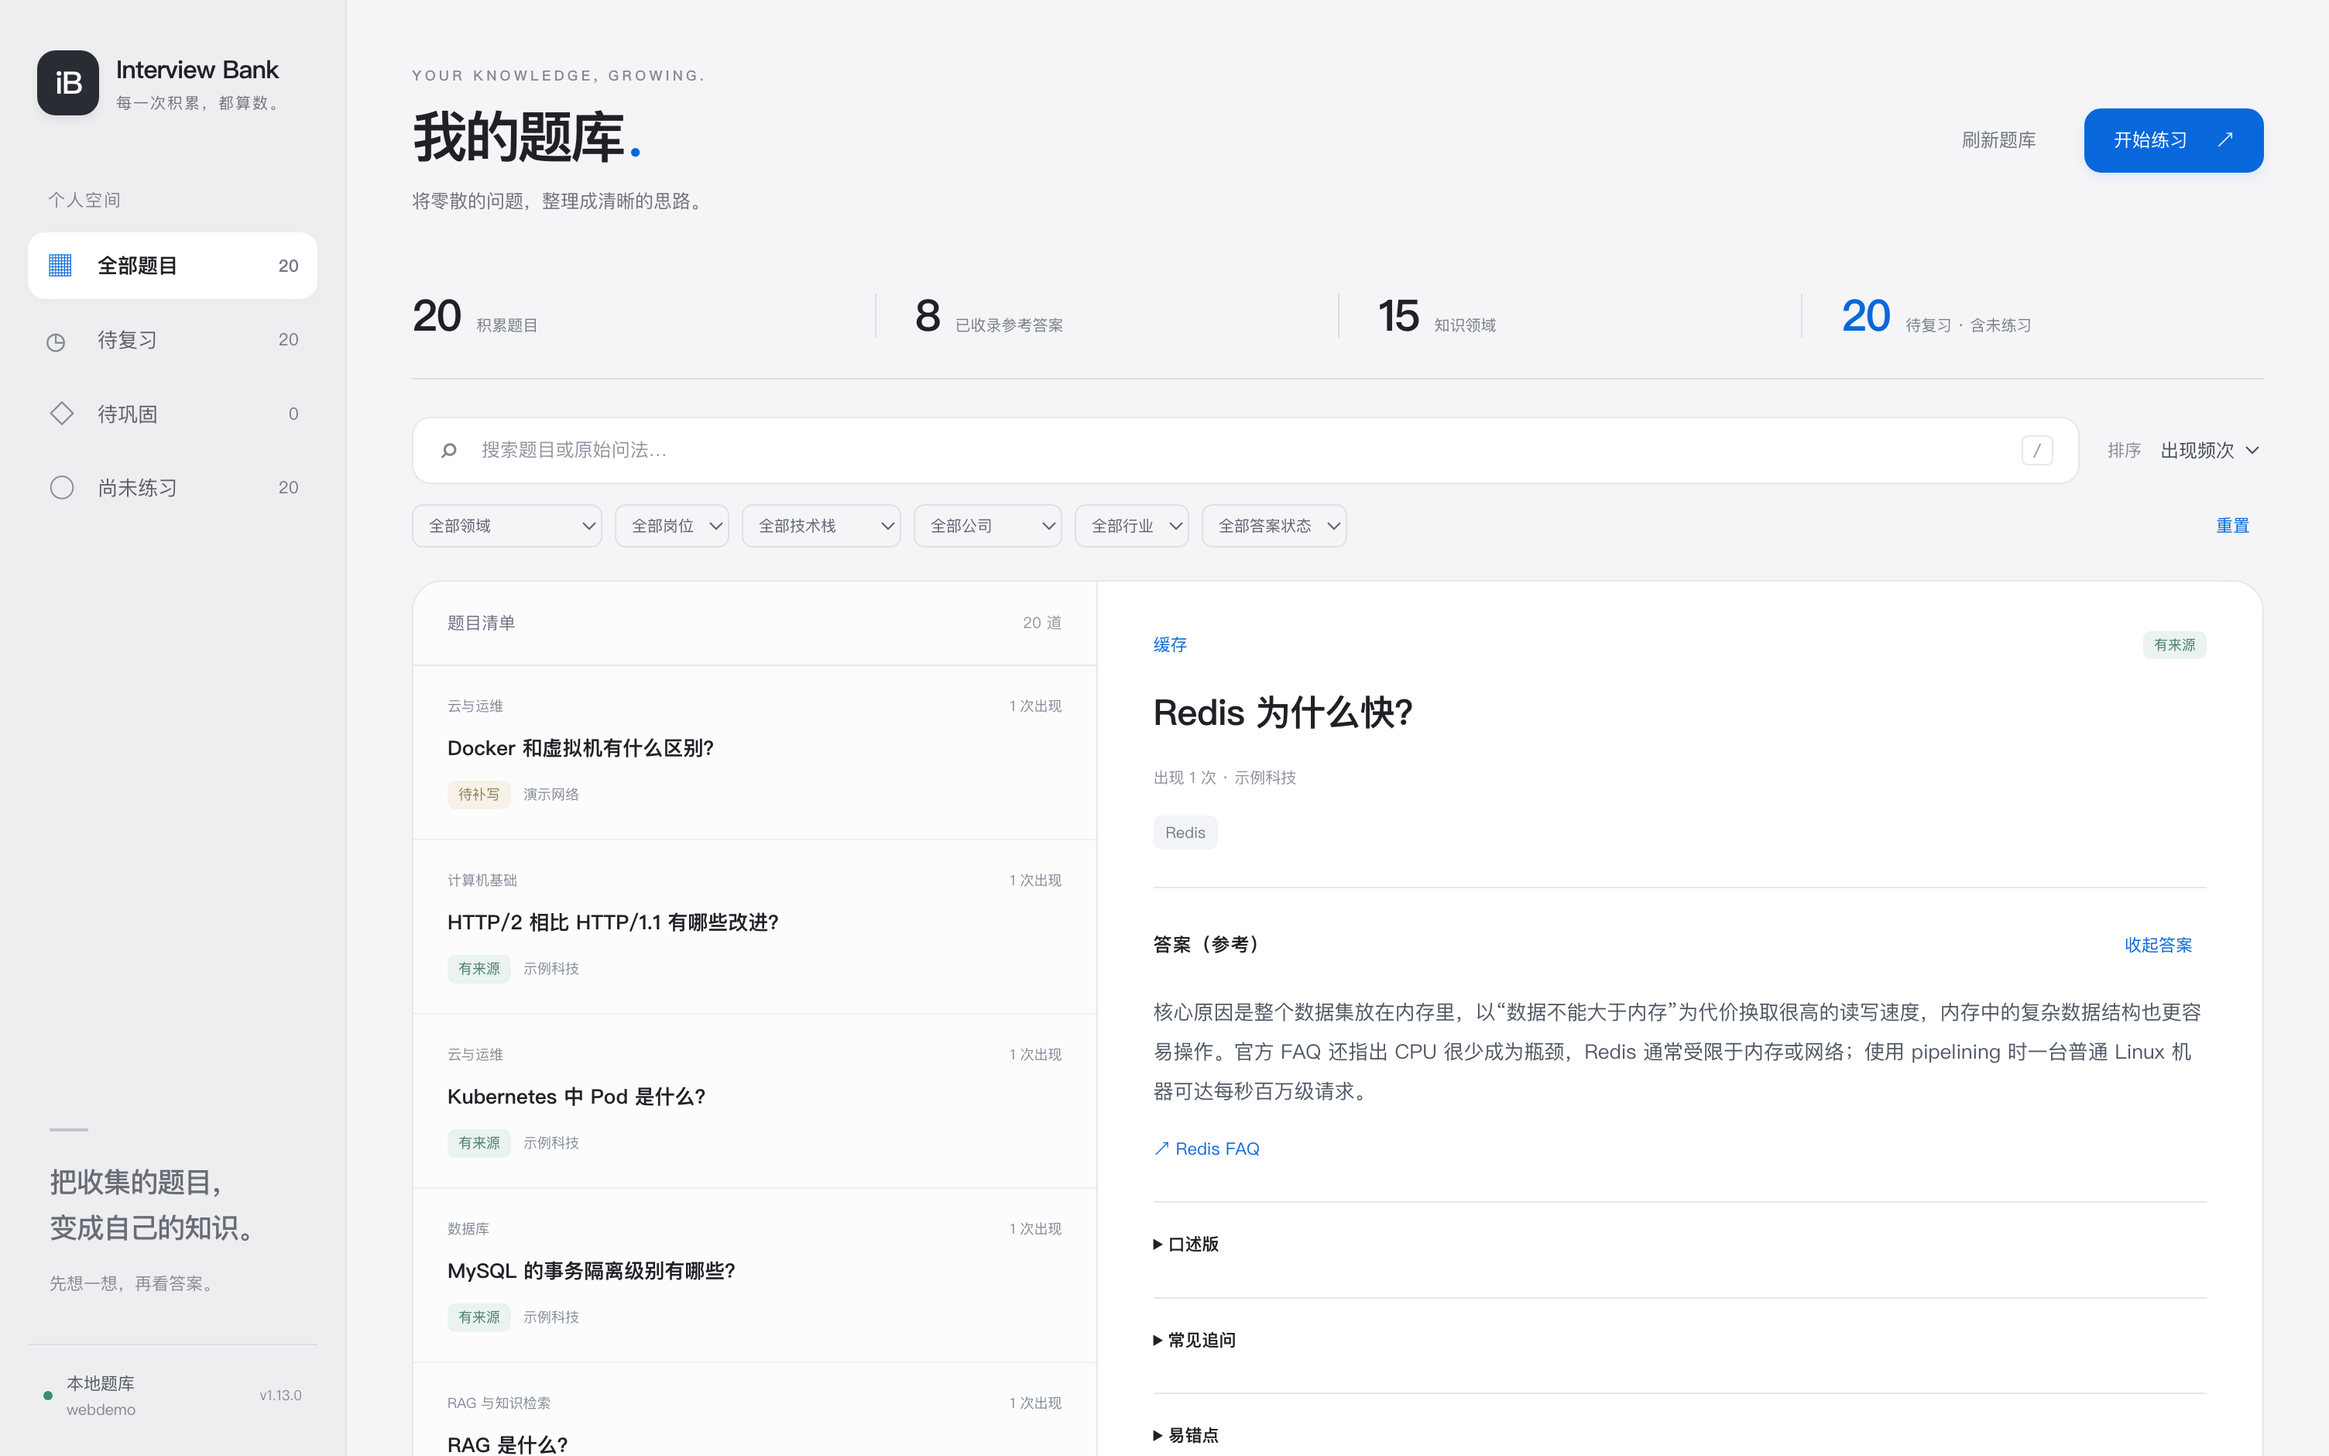
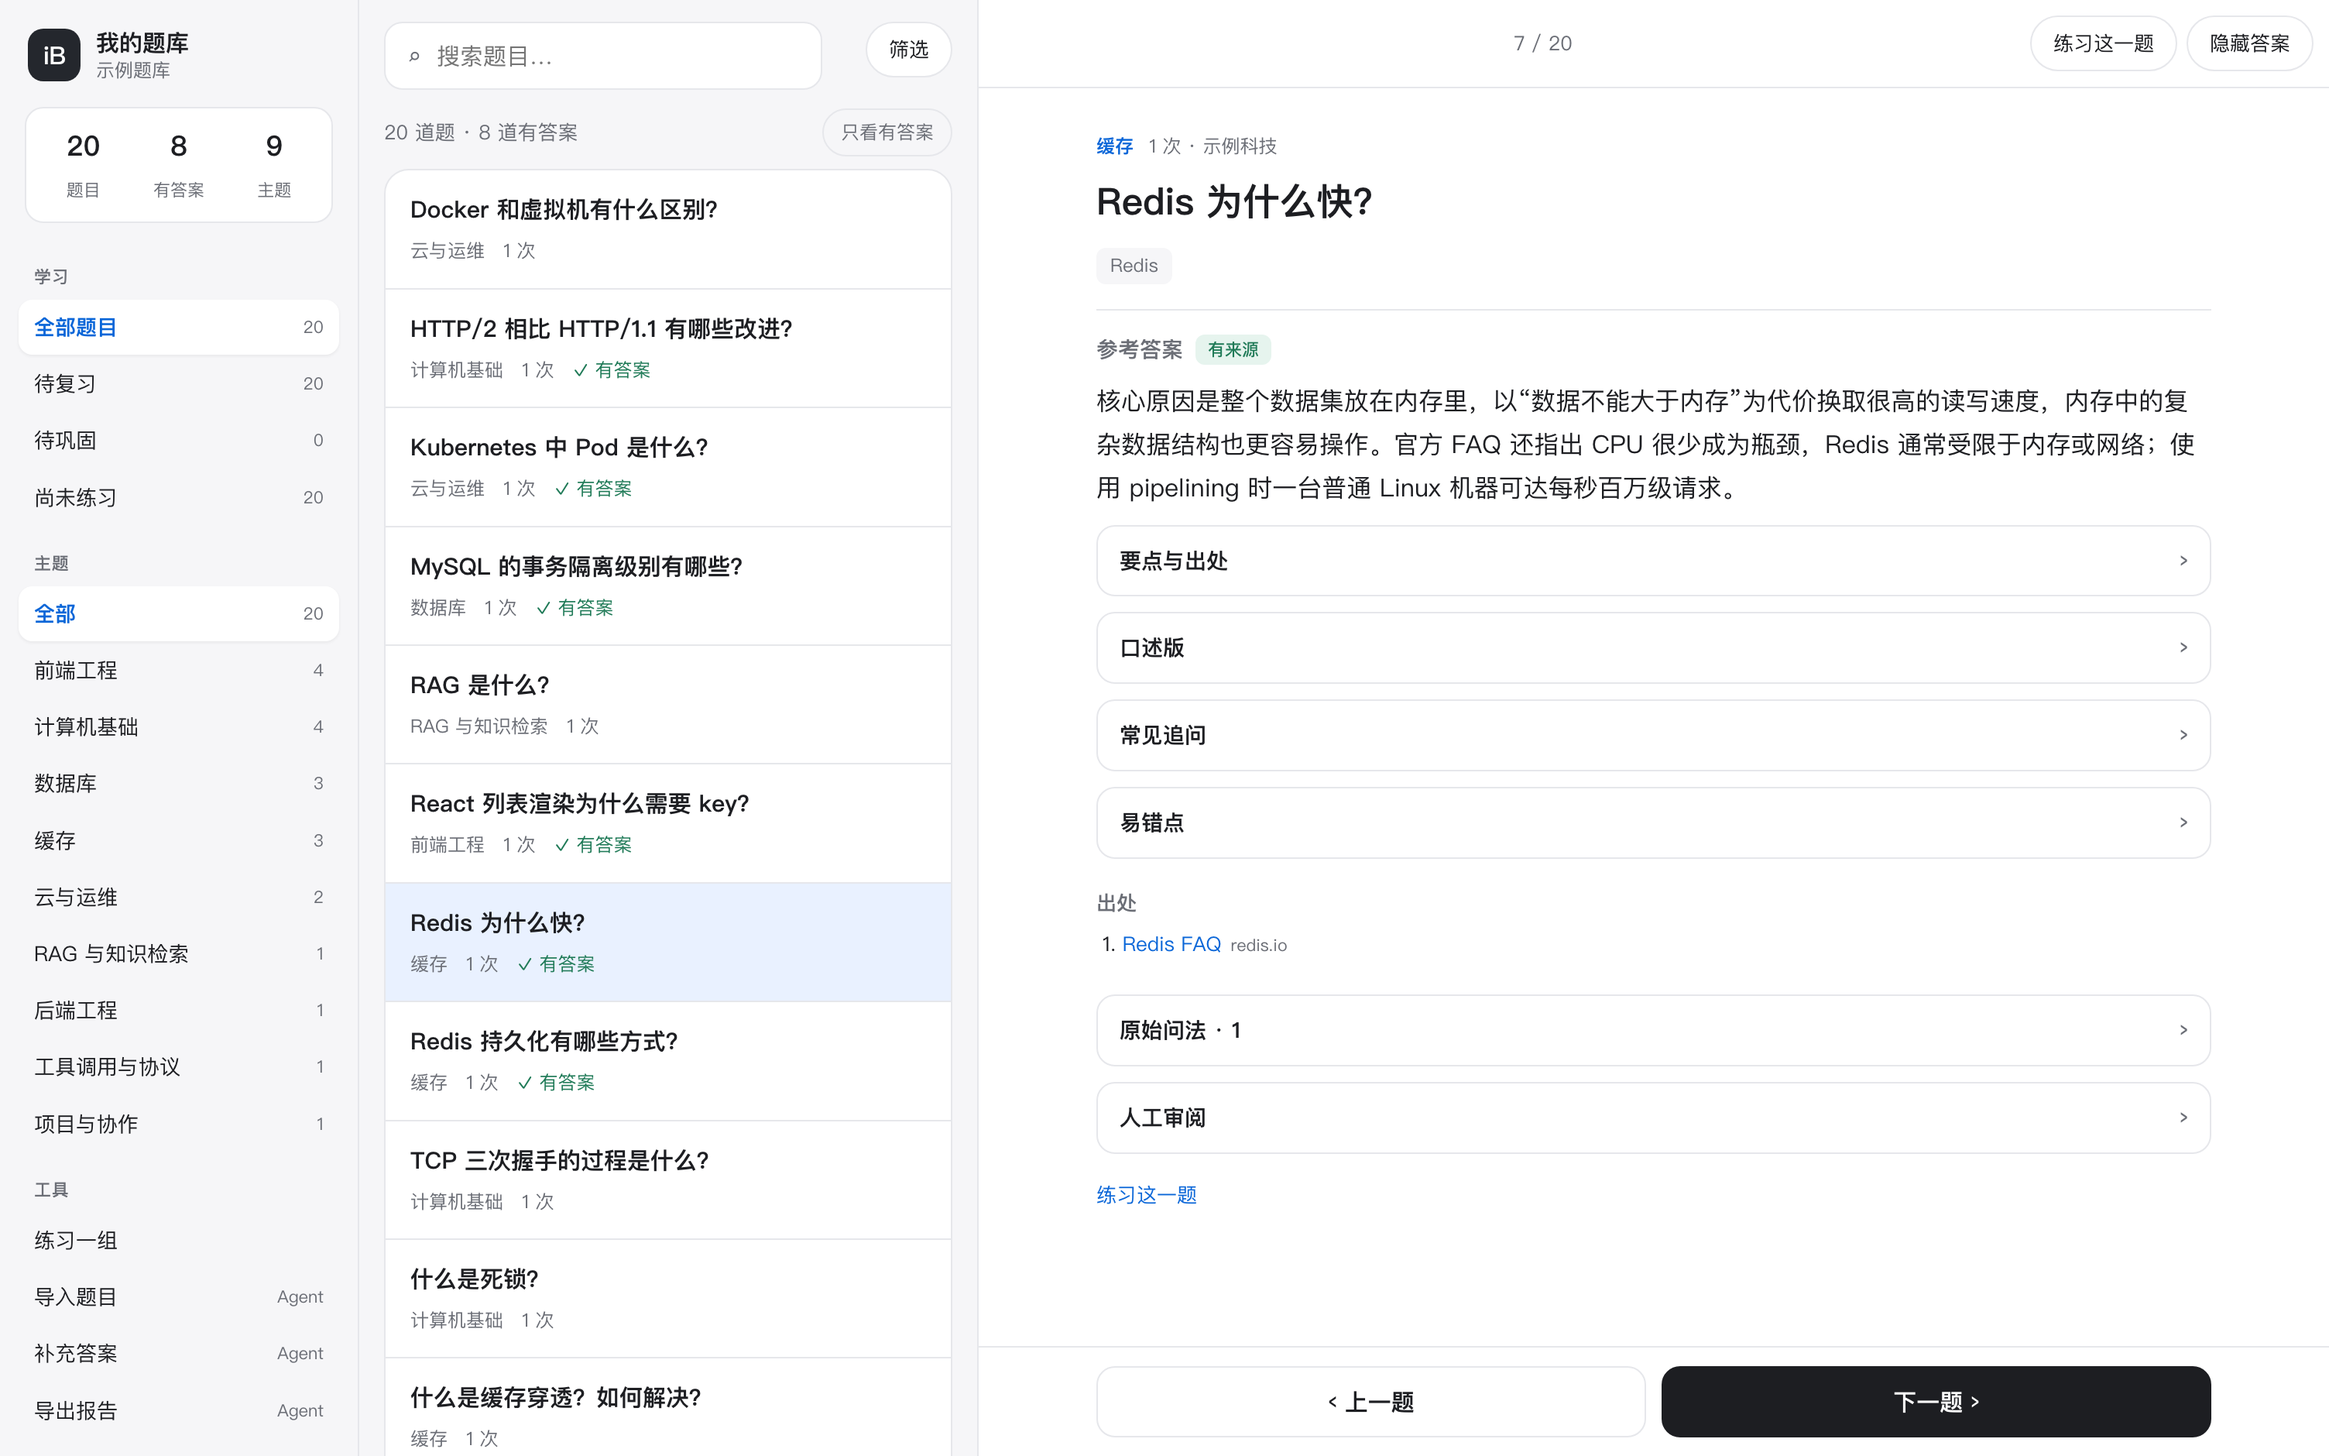
docs: README for 1.15 with computer and phone screenshots
- what is new in 1.15: the redesigned reader, hosting on your own server
  with a login page, one bank per account, deployment templates
- both screenshots come from the synthetic demo bank (fictional
  companies); the phone image is captured with device emulation
- 308 tests

diff --git a/README.en.md b/README.en.md
@@ -6,23 +6,26 @@ English | [简体中文](README.md)
 
 Suitable for internships, campus recruitment, autumn recruitment and experienced-hire interviews. Current version: **1.15.0**. See the [CHANGELOG](CHANGELOG.md) and [GitHub Releases](https://github.com/EXIST-D/Interview-bank/releases).
 
-## What's new: 1.14 fixes from a real-environment evaluation
+## What's new: 1.15 reading and practice online, on a phone or a computer
 
-1.14 comes from the first real-environment evaluation: the Skill installed in Claude Code, screenshots organised end to end by fresh Opus and Sonnet agents that read only the Skill, and the trigger, dedupe-judgment and answer suites run in real `claude -p` sessions (results under "Verification" below).
-
-- **Dedupe review sheet:** every dedupe task writes a topic-grouped `review-sheet.md` with incoming questions, their candidates and the bank's questions of the same topic, so paraphrases with no shared wording are compared. Any active question may be a merge target (audited as `outside_candidates`); decisions accept `n3`/`e7` refs and a `default_action`.
-- **Uncertain merges no longer block an import:** `ingest finalize --defer-review` commits what is decided and leaves the uncertain merges to the user under "Merge decisions" in the Web reader; `dedupe --resolve` applies them.
-- **Quotes that can be checked verbatim:** `page-text` saves the text of cited pages for `answer --page-texts`, and flags redirects to other pages.
-- **Phone screenshots:** rules for overlapping scrolls, questions cut across images, very tall images, the same interview posted twice, and evidence for abbreviated company names and platforms.
-- **Also:** large imports stay within the 32 KB output cap with smaller task files; a role for AI application development and tags such as Claude Code and Codex; report topics ordered by size; a rule for ties among the most frequent questions.
+- **A Web reader redesigned for short sessions:** on a phone, a list and a full-screen reader with previous/next at the bottom, swipe and the back gesture; on a computer, three columns (navigation, list, reader) with ←/→. Each answer lists its key points with links to the sources behind them; an optional think-first mode hides answers.
+- **On your own server:** the read-only reader can sit behind your own HTTPS server with its own login page (hashed passwords, 14-day sessions, lockout after repeated failures); `--banks-dir` gives several people one account and one bank each. `tools/deploy/sync.sh` copies the bank there from your computer (no screenshots), with daily verified backups.
+- **Deployment templates:** `tools/deploy/` holds the systemd units, nginx snippets and the account, sync and backup scripts; steps are in [local Web usage](skills/interview-bank/references/web.md).
+- Local use is unchanged: `web` still opens on your computer only, with the same new interface and no login.
 
 Details are in the [CHANGELOG](CHANGELOG.md). The local Web interface is described in [local Web usage](skills/interview-bank/references/web.md).
 
 ## Interface preview
 
-![Interview Bank local Web interface: filters, question list and reference answer](assets/readme/web-preview.png)
+On a computer: navigation, question list and reader in three columns.
 
-The screenshot comes from the `demo` sample bank (synthetic questions, fictional companies); anyone can reproduce it with `demo --bank <new dir>` and `web`.
+![Interview Bank on a computer: navigation and topics, question list, reference answer with sources](assets/readme/web-preview.png)
+
+On a phone: the question list and the full-screen reader with previous/next.
+
+![Interview Bank on a phone: question list and reader](assets/readme/mobile-preview.png)
+
+Both come from the `demo` sample bank (synthetic questions, fictional companies); anyone can reproduce them with `demo --bank <new dir>` and `web`.
 
 ## Repository layout
 
@@ -35,7 +38,7 @@ Interview-bank/
 ├── .github/workflows/ci.yml      # tests on Windows/macOS/Linux × Python 3.10–3.13, lint, legacy-format run, package check
 ├── tests/                        # standard-library unittest suite (not installed with the Skill)
 ├── evals/                        # evaluation datasets, scorer, recorded runs, host verification
-├── tools/                        # packaging, release checks, synthetic fixtures, measurements, eval runners
+├── tools/                        # packaging, release checks, synthetic fixtures, measurements, eval runners, server deployment (deploy/)
 ├── examples/                     # sample structured answer
 ├── assets/readme/                # README images, not installed
 └── skills/
@@ -186,7 +189,7 @@ The JSONL files in `data/` are the only source of truth and are queried directly
 
 **Other limits:** review queues are generated on demand with no background reminders; exact token and cost figures depend on the host; splitting an arbitrary historical merge is not supported, only undoing the latest eligible operation.
 
-**Verification:** v1.15.0 passes 300 automated tests in CI (Windows, macOS and Linux; Python 3.10–3.13), runs them again in the legacy snapshot format, and adds lint and a packaged-install check; run them with `python -B -m unittest discover -s tests`. Evaluation results and host checks are in [evals](evals/README.md): dedupe retrieval recall@10 is 1.00; blind dedupe judgments made 0 % false merges and 3.4 % missed merges (Opus and Sonnet); blind answers scored 1.7 / 2 from a separate judge with no unsupported claims; on Claude Code the trigger suite passes with Sonnet, while Haiku's recall (0.73–0.80) is below the gate. Extracted content and reference answers still need checking against the original material, sources and scope.
+**Verification:** v1.15.0 passes 308 automated tests in CI (Windows, macOS and Linux; Python 3.10–3.13), runs them again in the legacy snapshot format, and adds lint and a packaged-install check; run them with `python -B -m unittest discover -s tests`. Evaluation results and host checks are in [evals](evals/README.md): dedupe retrieval recall@10 is 1.00; blind dedupe judgments made 0 % false merges and 3.4 % missed merges (Opus and Sonnet); blind answers scored 1.7 / 2 from a separate judge with no unsupported claims; on Claude Code the trigger suite passes with Sonnet, while Haiku's recall (0.73–0.80) is below the gate. Extracted content and reference answers still need checking against the original material, sources and scope.
 
 The repository contains the Skill, tests, evaluations and development tools, documentation, license and the README image. Personal material, banks, research ledgers and local environments are not published; test and evaluation data are synthetic.
 

diff --git a/README.md b/README.md
@@ -6,23 +6,26 @@
 
 适用于校招、实习、秋招和社招。当前版本为 **1.15.0**。详见 [更新记录](CHANGELOG.md) 与 [GitHub Releases](https://github.com/EXIST-D/Interview-bank/releases)。
 
-## 本次更新：1.14 真实环境测评后的修复
+## 本次更新：1.15 手机和电脑上的在线阅读与练习
 
-1.14 来自第一次真实环境测评：Skill 安装到 Claude Code，由只读 Skill 文档的全新 Opus、Sonnet Agent 端到端完成截图整理，并在真实 `claude -p` 会话中跑触发、去重判断与答案评测（结果见下方“验证情况”）。
-
-- **去重审阅表**：每个去重任务生成按主题分组的 `review-sheet.md`，列出新题、候选和同主题已有题，字面不同的同义题也能被对照到。合并目标可以是题库中任意有效题目（审计中标记 `outside_candidates`），决策可用 `n3`/`e7` 简写，`default_action` 省去逐条写"不重复"。
-- **不确定的合并不再卡住整批**：`ingest finalize --defer-review` 先提交确定的部分，拿不准的合并留给用户在 Web“合并裁决”里决定，再由 `dedupe --resolve` 应用。
-- **答案引用可逐字核对**：新增 `page-text`，把引用页面的正文存下来供 `answer --page-texts` 校验摘录；重定向到其他页面会提示。
-- **手机截图规则**：滚动截图重叠、跨图断题、超长图、同一面经发两次，以及缩写公司名与平台的证据规则。
-- **其他**：大批量导入的输出不再超出 32 KB 上限、任务文件更小；新增“AI 应用开发”岗位与 Claude Code、Codex 等技术标签；报告按题量排列主题；并列高频题有明确规则。
+- **为碎片时间重新设计的网页**：手机上是列表 + 全屏阅读，底部"上一题 / 下一题"、左右滑动、返回手势回到列表；电脑上是三栏（导航、列表、阅读），键盘 ←/→ 切换。答案下方列出"要点与出处"，每个要点都能点开它依据的原始资料；可开启"先想再看"。
+- **放到自己的服务器上**：只读阅读器可以部署在你自己的 HTTPS 服务器后面，带独立登录页（密码只存摘要、会话 14 天、连续输错锁定）；`--banks-dir` 支持多人各用一个账号、只看到自己的题库。题库由 `tools/deploy/sync.sh` 从本机同步过去（不含截图），每日自动备份并校验。
+- **部署模板**：`tools/deploy/` 提供 systemd 服务、nginx 配置、账号管理、同步和备份脚本；步骤见 [本地 Web 说明](skills/interview-bank/references/web.md)。
+- 本地使用不受影响：`web` 命令仍只在本机打开，同样是新界面，不需要登录。
 
 详见 [更新记录](CHANGELOG.md)。本地 Web 用法见 [本地 Web 说明](skills/interview-bank/references/web.md)。
 
 ## 界面示例
 
-![Interview Bank 本地 Web 界面：多维筛选、题目列表与参考答案阅读](assets/readme/web-preview.png)
+电脑上：导航、题目列表和阅读区三栏。
 
-上图由 `demo` 示例题库生成（合成题目与虚构公司），任何人都可以用 `demo --bank <新目录>` 和 `web` 复现。
+![Interview Bank 网页（电脑）：左侧导航与主题，中间题目列表，右侧参考答案与出处](assets/readme/web-preview.png)
+
+手机上：题目列表与全屏阅读，底部切换上一题 / 下一题。
+
+![Interview Bank 网页（手机）：题目列表与阅读页](assets/readme/mobile-preview.png)
+
+两张图都由 `demo` 示例题库生成（合成题目与虚构公司），任何人都可以用 `demo --bank <新目录>` 和 `web` 复现。
 
 ## 仓库结构
 
@@ -35,7 +38,7 @@ Interview-bank/
 ├── .github/workflows/ci.yml      # Windows/macOS/Linux × Python 3.10–3.13 测试、lint、旧格式回归与安装包检查
 ├── tests/                        # 标准库 unittest 测试（不随 Skill 安装）
 ├── evals/                        # 评测数据集、打分脚本、评测记录与宿主验证记录
-├── tools/                        # 打包、发布检查、合成夹具、度量与评测运行器
+├── tools/                        # 打包、发布检查、合成夹具、度量、评测运行器与服务器部署模板（deploy/）
 ├── examples/                     # 结构化答案样例
 ├── assets/readme/                # 主页示意图，不随 Skill 安装
 └── skills/
@@ -204,7 +207,7 @@ python -B <Skill目录>/scripts/ibank.py web --bank <已有题库目录> --open
 
 **其他边界：**复习队列按需生成，没有后台提醒；精确 Token 和费用统计依赖宿主；任意历史合并的拆分尚不支持，仅支持满足条件的最近操作撤销。
 
-**验证情况：** v1.15.0 在 CI 中通过 300 项自动化测试（Windows、macOS、Linux；Python 3.10–3.13），另以旧快照格式回归一遍，并做 lint 与安装包检查；可用 `python -B -m unittest discover -s tests` 自行运行。评测结果与宿主验证见 [evals](evals/README.md)：去重召回 recall@10 为 1.00；盲测的去重判断误合并 0%、漏合并 3.4%（Opus、Sonnet）；盲测答案经独立评审平均 1.7/2，无无依据断言；Claude Code 上 Sonnet 的触发评测达标，Haiku 召回 0.73–0.80 未达标。识别结果与参考答案仍需结合原文、来源和适用条件核对。
+**验证情况：** v1.15.0 在 CI 中通过 308 项自动化测试（Windows、macOS、Linux；Python 3.10–3.13），另以旧快照格式回归一遍，并做 lint 与安装包检查；可用 `python -B -m unittest discover -s tests` 自行运行。评测结果与宿主验证见 [evals](evals/README.md)：去重召回 recall@10 为 1.00；盲测的去重判断误合并 0%、漏合并 3.4%（Opus、Sonnet）；盲测答案经独立评审平均 1.7/2，无无依据断言；Claude Code 上 Sonnet 的触发评测达标，Haiku 召回 0.73–0.80 未达标。识别结果与参考答案仍需结合原文、来源和适用条件核对。
 
 仓库包含 Skill、测试、评测与开发工具、介绍、许可证及本页示意图。个人素材、题库、答案研究记录和本地依赖环境不随仓库发布；测试与评测数据均为合成数据。
 
